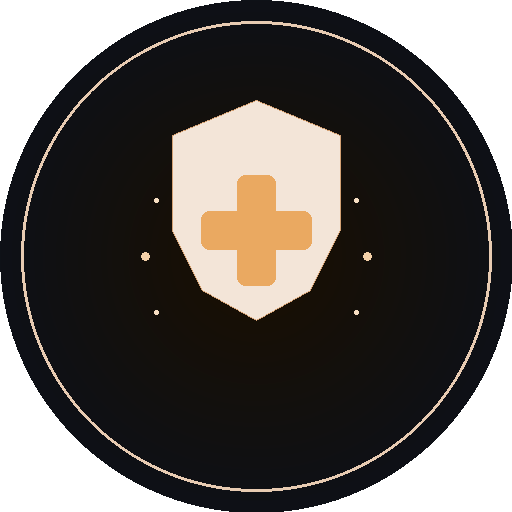
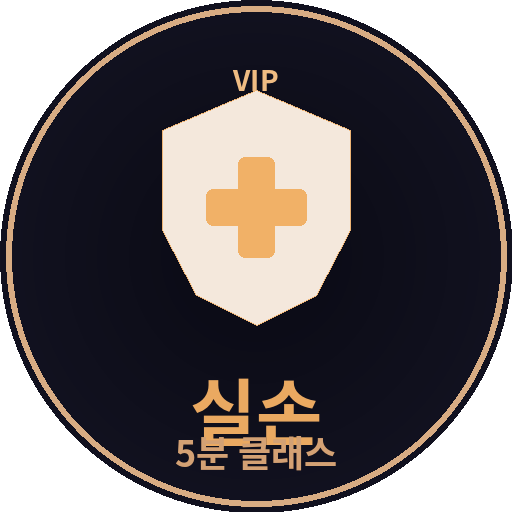
Add files via upload

Changed region(s): [[0.0, 0.0, 1.0, 1.0], [0.3125, 0.125, 0.6875, 0.6562]]

diff --git a/fp.html b/fp.html
@@ -3,14 +3,14 @@
 <head>
 <meta charset="UTF-8">
 <meta name="viewport" content="width=device-width, initial-scale=1.0, viewport-fit=cover">
-<title>실손 5분 클래스 | FP 전용</title>
+<title>실손 클래스 | 유니스 VIP</title>
 
 <!-- PWA 설정 -->
 <link rel="manifest" href="manifest-fp.json">
 <meta name="mobile-web-app-capable" content="yes">
 <meta name="apple-mobile-web-app-capable" content="yes">
 <meta name="apple-mobile-web-app-status-bar-style" content="black-translucent">
-<meta name="apple-mobile-web-app-title" content="실손FP">
+<meta name="apple-mobile-web-app-title" content="실손 클래스">
 <link rel="icon" type="image/x-icon" href="favicon.ico">
 <link rel="icon" type="image/png" sizes="32x32" href="icon-32.png">
 <link rel="icon" type="image/png" sizes="192x192" href="icon-192.png">
